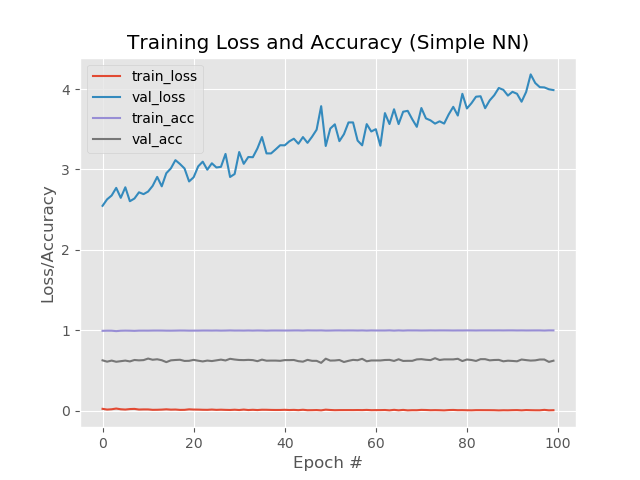
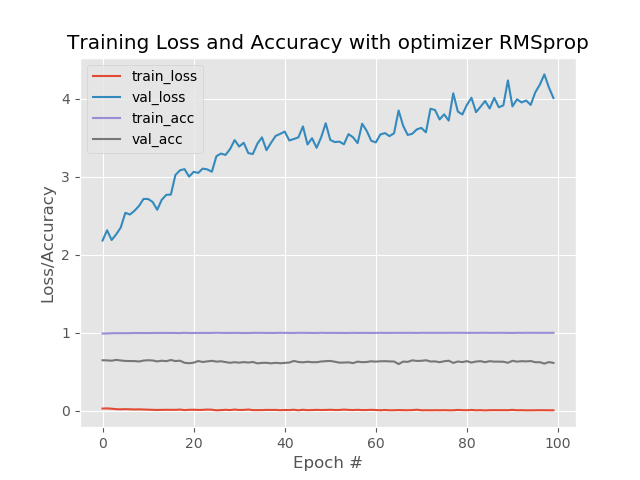
exp 1,4,6 properly

diff --git a/main.py b/main.py
@@ -1,32 +1,43 @@
 import lenet_new
 import data_loading
 import train_and_test
+import inc_v3
 
 def main():
 	# Number of classes
 	n_classes = 3
 	
-	# Dimensions of the convolutional layers in the model, and thus
-	# in which dimensions to resize the images
-	width = 28
-	height = 28
-	
 	im_dat, im_labels = data_loading.load_data_cv2()
 	print("Welcome!")	
 	
 	while True:
-		model_choice = int(input("Please specify which model you would like to test. \n1 = Standard LeNet (28x28)\n2 = InceptionV3 (299x299, does not work yet, don't choose)\n3 = ResNet-50 (does not work yet, don't choose)\n4 = Exit program  "))
-		# ~ reshaped_im = data_loading.prep_data_cv2(im_dat, width, height)
+		model_choice = int(input("Please specify which model you would like to test. \n1 = LeNet-5 (32x32)\n2 = InceptionV3 (299x299)\n3 = Exit program  "))
 		
 		if model_choice == 1:
-			reshaped_im = data_loading.prep_data_cv2(im_dat, im_labels, 28, 28)
-			choice = input("Please specify which optimizer you would like to test. \nFill in optimizer (SGD/Adam/etc by keras): \nOr quit LeNet by pressing enter.  ")
+			width = 32
+			height = 32
+			reshaped_im = data_loading.prep_data_cv2(im_dat, im_labels, width, height)
+			print("\t Please specify which optimizer you would like to test (SGD/Adam/RMSprop), \n\t or quit LeNet by pressing enter.")
+			choice = input("Fill in optimizer: ")
 			model = lenet_new.lenet_model(width, height, n_classes)
 			while choice:
 				EPOCHS = int(input("Please specify the number of epochs. "))
 				train_and_test.learning(reshaped_im, model, width, height, choice, "categorical_crossentropy", EPOCHS)
-				choice = input("Please specify which optimizer you would like to test. \nFill in optimizer (SGD/Adam/etc by keras): \nOr quit LeNet by pressing enter.  ")
-		elif model_choice == 4:
+				print("\t Please specify which optimizer you would like to test (SGD/Adam/RMSprop), \n\t or quit LeNet by pressing enter.")
+				choice = input("Fill in optimizer: ")
+		elif model_choice == 2:
+			width = 299
+			height = 299
+			reshaped_im = data_loading.prep_data_cv2(im_dat, im_labels, width, height)
+			print("\t Please specify which optimizer you would like to test (SGD/Adam/RMSprop), \n\t or quit InceptionV3 by pressing enter.")
+			choice = input("Fill in optimizer: ")
+			model = inc_v3.inc_v3_model()
+			while choice:
+				EPOCHS = int(input("Please specify the number of epochs. "))
+				train_and_test.learning(reshaped_im, model, width, height, choice, "categorical_crossentropy", EPOCHS)
+				print("\t Please specify which optimizer you would like to test (SGD/Adam/RMSprop), \n\t or quit InceptionV3 by pressing enter.")
+				choice = input("Fill in optimizer: ")
+		elif model_choice == 3:
 			print("Bye bye!")
 			break
 		else:

diff --git a/vgg.py b/vgg.py
@@ -1,0 +1,58 @@
+# import the necessary packages
+## tensorflow etc
+import tensorflow as tf
+from tensorflow import keras
+from keras.models import *
+from keras.layers import *
+from keras.optimizers import *
+from keras.applications import *
+
+
+def create_vgg():
+    model = models.Sequential()
+    model.add(layers.Conv2D(32, (3, 3), padding="same",
+			input_shape=(224, 224, 3)))
+    model.add(layers.Activation("relu"))
+    #model.add(BatchNormalization(axis=chanDim))
+    model.add(layers.MaxPooling2D(pool_size=(2, 2)))
+    model.add(layers.Dropout(0.25))
+    
+# (CONV => RELU) * 2 => POOL layer set
+    model.add(layers.Conv2D(64, (3, 3), padding="same"))
+    model.add(layers.Activation("relu"))
+    #model.add(BatchNormalization(axis=chanDim))
+    model.add(layers.Conv2D(64, (3, 3), padding="same"))
+    model.add(layers.Activation("relu"))
+    #model.add(BatchNormalization(axis=chanDim))
+    model.add(layers.MaxPooling2D(pool_size=(2, 2)))
+    model.add(layers.Dropout(0.25))
+
+
+# (CONV => RELU) * 3 => POOL layer set
+    model.add(layers.Conv2D(128, (3, 3), padding="same"))
+    model.add(layers.Activation("relu"))
+    #model.add(BatchNormalization(axis=chanDim))
+    model.add(layers.Conv2D(128, (3, 3), padding="same"))
+    model.add(layers.Activation("relu"))
+    #model.add(BatchNormalization(axis=chanDim))
+    model.add(layers.Conv2D(128, (3, 3), padding="same"))
+    model.add(layers.Activation("relu"))
+    #model.add(BatchNormalization(axis=chanDim))
+    model.add(layers.MaxPooling2D(pool_size=(2, 2)))
+    model.add(layers.Dropout(0.25))
+
+# first (and only) set of FC => RELU layers
+    model.add(layers.Flatten())
+    model.add(layers.Dense(512))
+    model.add(layers.Activation("relu"))
+    #model.add(BatchNormalization())
+    model.add(layers.Dropout(0.5))
+    # softmax classifier
+    model.add(layers.Dense(units=43))
+    model.add(layers.Activation("softmax"))
+    # return the constructed network architecture
+    return model
+
+
+def get_vgg():
+	model = VGG16()

diff --git a/lenet_new.py b/lenet_new.py
@@ -24,3 +24,47 @@ def lenet_model(width, height, n_classes):
 		Dense(n_classes, activation='softmax') #Output layer
 	])
 	return model
+
+# Exp 2: LeNet model with addition of a dropout layer
+def lenet_model_dropout(width, height, n_classes):
+	model = Sequential([
+		Conv2D(6, kernel_size=5, strides=1,  activation='tanh', input_shape=(width, height, 3), padding='same'), #C1
+		AveragePooling2D(), #S2
+		Conv2D(16, kernel_size=5, strides=1, activation='tanh', padding='valid'), #C3
+		AveragePooling2D(), #S4
+		Flatten(), #Flatten
+		Dense(120, activation='tanh'), #C5
+		Dropout(0.5),
+		Dense(84, activation='tanh'), #F6
+		Dense(n_classes, activation='softmax') #Output layer
+	])
+	return model
+
+# Exp 3: LeNet model with addition of a batch normalization layer
+def lenet_model_batch_norm(width, height, n_classes):
+	model = Sequential([
+		Conv2D(6, kernel_size=5, strides=1,  activation='tanh', input_shape=(width, height, 3), padding='same'), #C1
+		AveragePooling2D(), #S2
+		Conv2D(16, kernel_size=5, strides=1, activation='tanh', padding='valid'), #C3
+		AveragePooling2D(), #S4
+		Flatten(), #Flatten
+		Dense(120, activation='tanh'), #C5
+		Dropout(0.5),
+		Dense(84, activation='tanh'), #F6
+		Dense(n_classes, activation='softmax') #Output layer
+	])
+	return model
+
+# Exp 5: LeNet model in which all tanh activations have become ReLU
+def lenet_model_relu(width, height, n_classes):
+	model = Sequential([
+		Conv2D(6, kernel_size=5, strides=1,  activation='tanh', input_shape=(width, height, 3), padding='same'), #C1
+		AveragePooling2D(), #S2
+		Conv2D(16, kernel_size=5, strides=1, activation='tanh', padding='valid'), #C3
+		AveragePooling2D(), #S4
+		Flatten(), #Flatten
+		Dense(120, activation='tanh'), #C5
+		Dense(84, activation='tanh'), #F6
+		Dense(n_classes, activation='softmax') #Output layer
+	])
+	return model

diff --git a/data_loading.py b/data_loading.py
@@ -47,8 +47,8 @@ def load_data_cv2():
 	# ~ cv2.waitKey(0)
 	# ~ print("[INFO] actually starting loading. ")
 	
-	''' For development, use imagePaths[:10]'''
-	p = imagePaths#[:2000]
+	''' For development, use imagePaths[:100] or something like that '''
+	p = imagePaths#[:100]
 	
 	bar = Bar('Loading', fill='+', max=len(p))
 
@@ -76,15 +76,14 @@ def prep_data_cv2(data, labels, width, height):
 	bar2 = Bar('Resizing', fill='+', max=len(data))
 	for i, _ in enumerate(data):
 		bar2.next()
-		data[i] = cv2.resize(data[i], (width, height))
+		data[i] = cv2.resize(data[i], (width, height))#.flatten()
 	bar2.finish()
-	print(data[0].shape)
 
 	# Scale the raw pixel intensities to the range [0, 1]
 	data = np.array(data, dtype="float") / 255.0
 	labels = np.array(labels)
 
-	print("LENGTH OF DATA: ", len(data))
+	print("LENGTH OF ALL DATA: ", len(data))
 
 	# Partition the data: 20% test, 10% validation, 70% train
 	(trainX, testX, trainY, testY) = train_test_split(data,
@@ -92,9 +91,8 @@ def prep_data_cv2(data, labels, width, height):
 	(trainX, valX, trainY, valY) = train_test_split(data,
 		labels, test_size=0.125, random_state=42)
 
-	print("SHAPE OF DATA: ", trainX[0].shape) # should be (width, height, 3) because RGB
+	print("SHAPE OF TRAIN DATA: ", trainX[0].shape) # should be (width, height, 3) because RGB
 
-	''' NB: IK SNAP NOG NIET WAT DIT PRECIES DOET '''
 	# convert the labels from integers to vectors
 	lb = LabelBinarizer()
 	trainY = lb.fit_transform(trainY)

diff --git a/inc_v3.py b/inc_v3.py
@@ -11,11 +11,34 @@ from keras.applications import *
 import train_and_test
 import data_loading
 
-def main():
-	im_dat = data_loading.load_data_cv2(299, 299)
-	model = InceptionV3(weights=None, classes=3)
-	train_and_test.learning(im_dat, model, 299, 299, "SGD", "categorical_crossentropy", 20) #Exp1
+def inc_v3_model():
+	model = InceptionV3(weights="imagenet", include_top=False, input_shape=(299,299,3))
+	
+	# Since we do not use the top layer, we must make one ourselves
+	x = model.output
+	top_layer = Sequential([
+	Dense(3, activation='softmax')
+	])
+	new_model = Model(inputs=model.input, outputs=top_layer)
+	
+	return new_model
 
+def inc_v3_model_2():
+	base_model = InceptionV3(weights="imagenet", include_top=False, input_shape=(299,299,3), classes=3)
+	
+	# Add a global spatial average pooling layer
+	x = base_model.output
+	x = GlobalAveragePooling2D()(x)
 
-if __name__ == main():
-    main()
+	# Add a fully-connected layer and a logistic layer with 3 classes 
+	x = Dense(512, activation='relu')(x)
+	predictions = Dense(3, activation='softmax')(x)
+
+	# The model we will train
+	model = Model(inputs = base_model.input, outputs = predictions)
+
+	# first: train only the top layers i.e. freeze all convolutional InceptionV3 layers
+	for layer in base_model.layers:
+		layer.trainable = False
+	
+	return model

diff --git a/train_and_test.py b/train_and_test.py
@@ -38,6 +38,7 @@ def learning(im_dat, model, width, height, opt, chosen_loss, n_epochs):
 	model.evaluate(testX, testY)
 	predictions = model.predict(x=testX, batch_size=32)
 	
+	print(f"You used optimizer {opt}.")
 	exp_nr = input("Which experiment number is this? ")
 
 	# plot the training loss and accuracy
@@ -48,7 +49,7 @@ def learning(im_dat, model, width, height, opt, chosen_loss, n_epochs):
 	plt.plot(N, H.history["val_loss"], label="val_loss")
 	plt.plot(N, H.history["accuracy"], label="train_acc")
 	plt.plot(N, H.history["val_accuracy"], label="val_acc")
-	plt.title("Training Loss and Accuracy (Simple NN)")
+	plt.title(f"Training Loss and Accuracy with optimizer {opt}")
 	plt.xlabel("Epoch #")
 	plt.ylabel("Loss/Accuracy")
 	plt.legend()

diff --git a/experiments_to_run.py b/experiments_to_run.py
@@ -16,6 +16,6 @@
 
 
 ## Results
-1 loss: 0.7672, acc: 0.7435
-4 loss: 2.5020, acc: 0.7620
-6 loss: 1.5865, acc: 0.7778
+1 loss: 0.7315, acc: 0.7676
+4 loss: 2.5063, acc: 0.7574
+6 loss: 1.2753, acc: 0.7806
